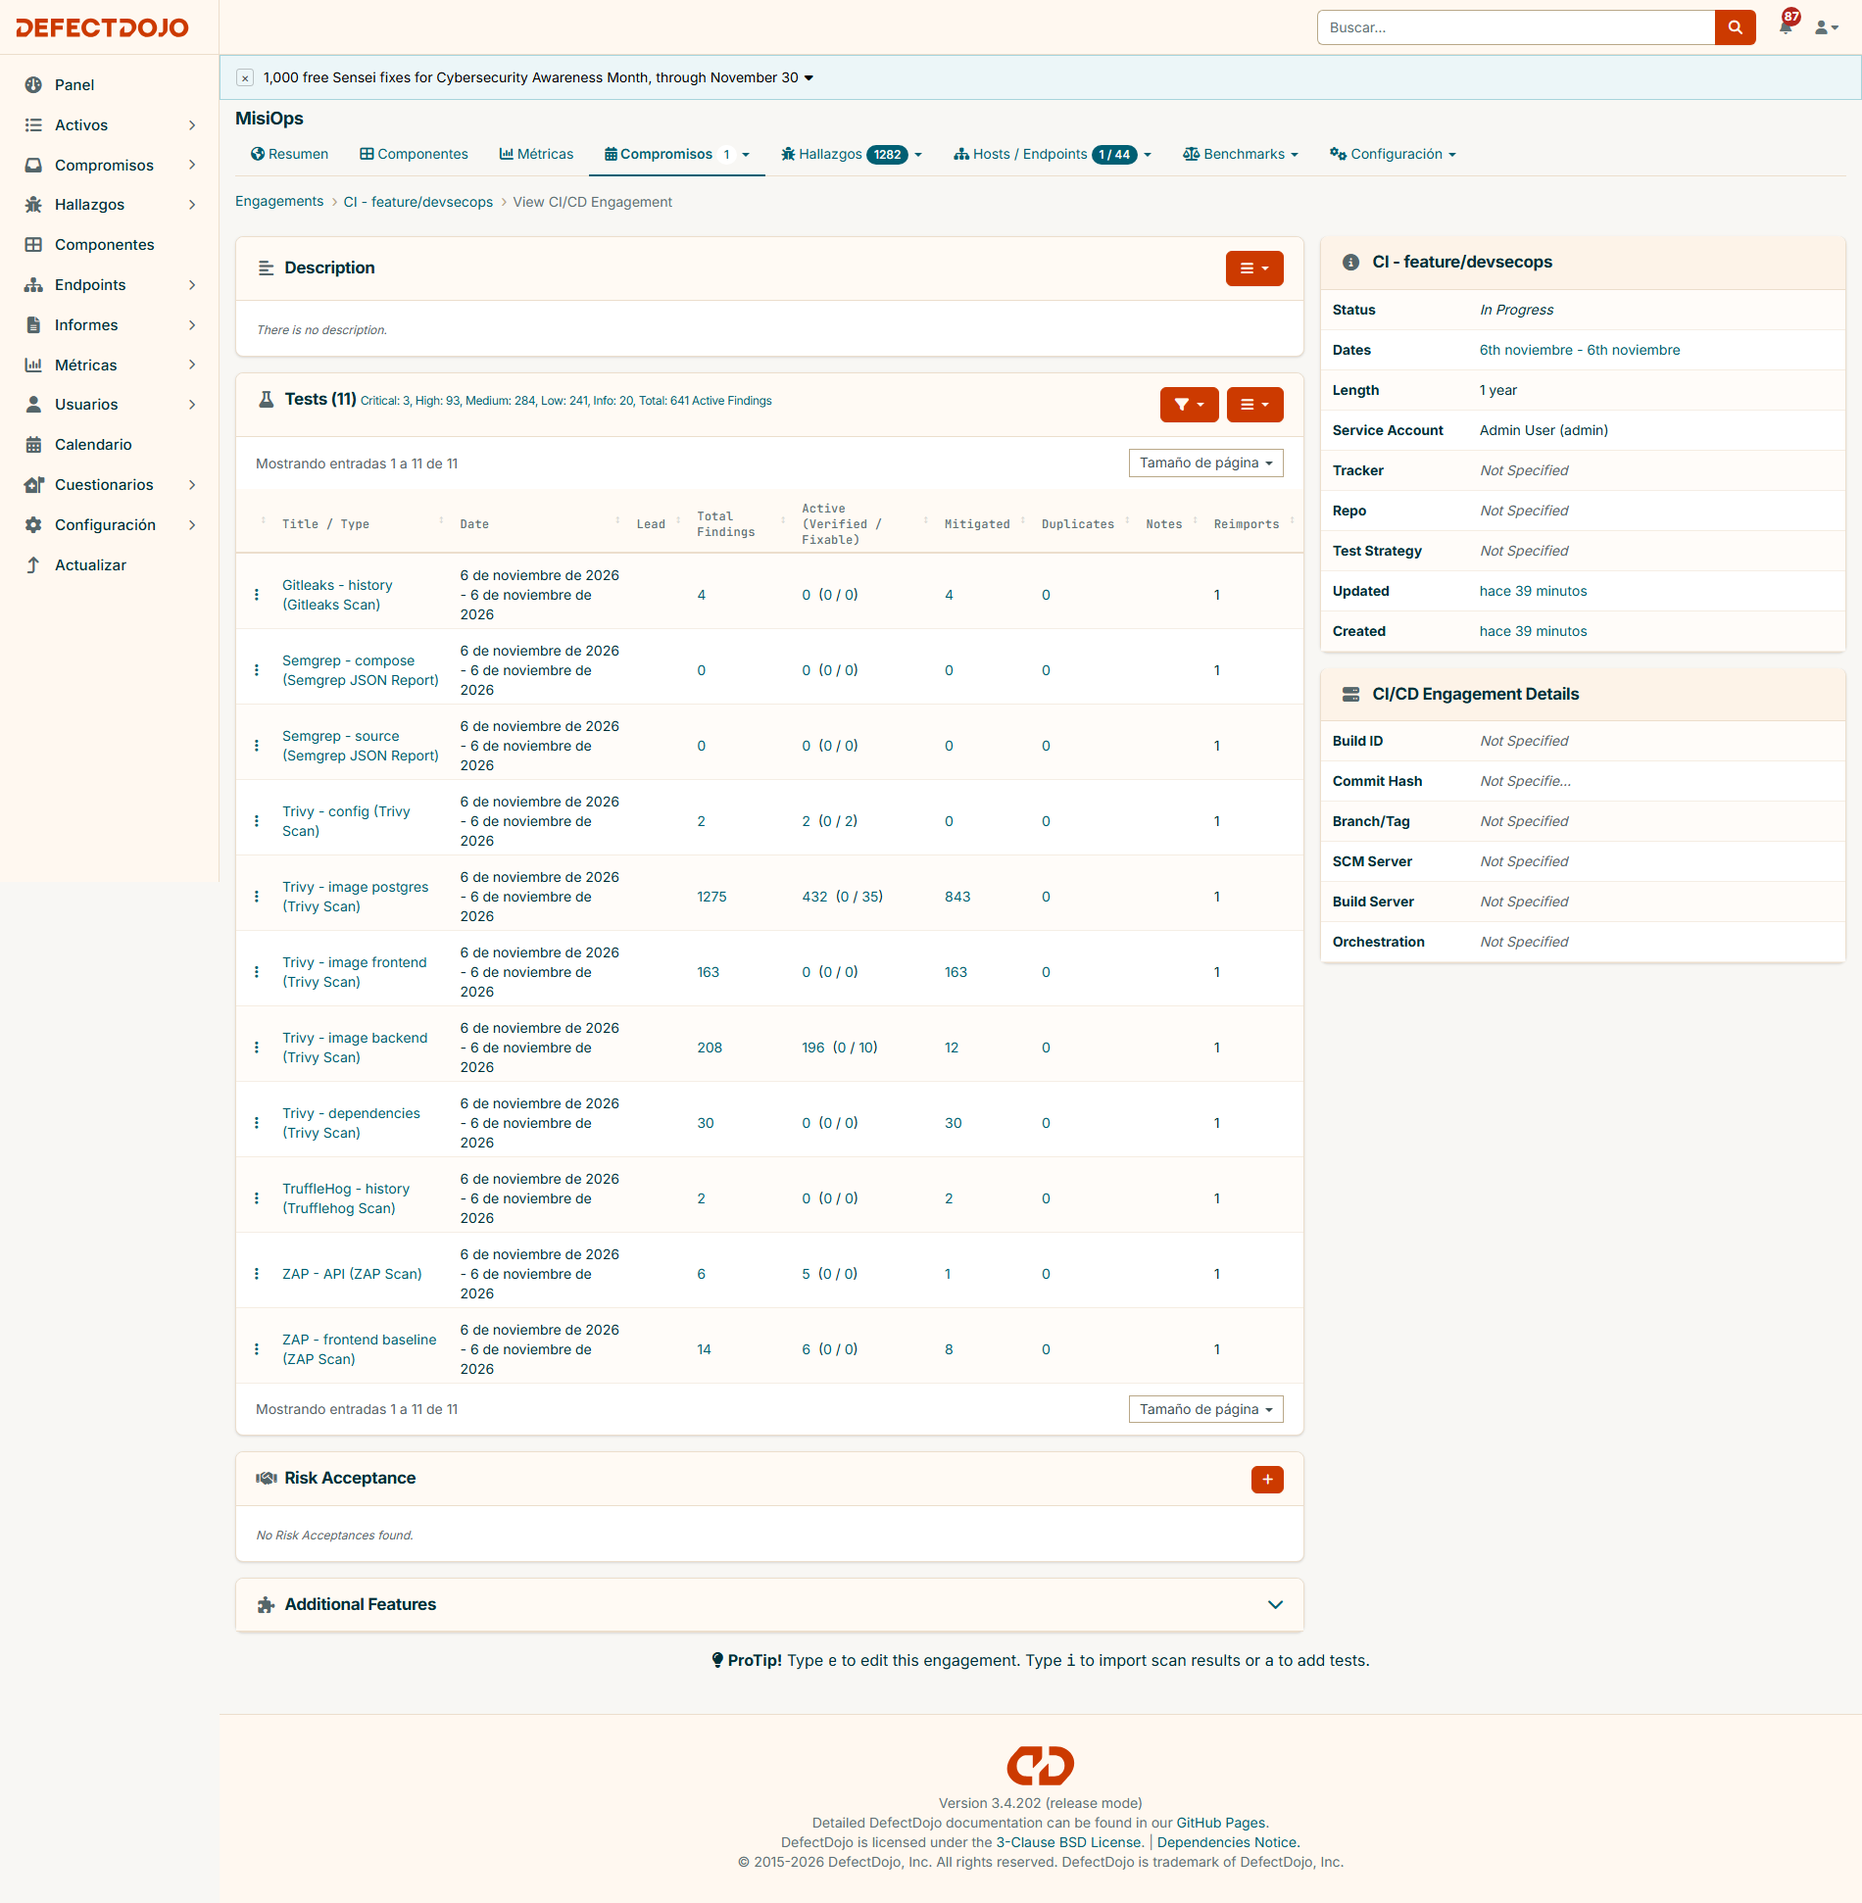
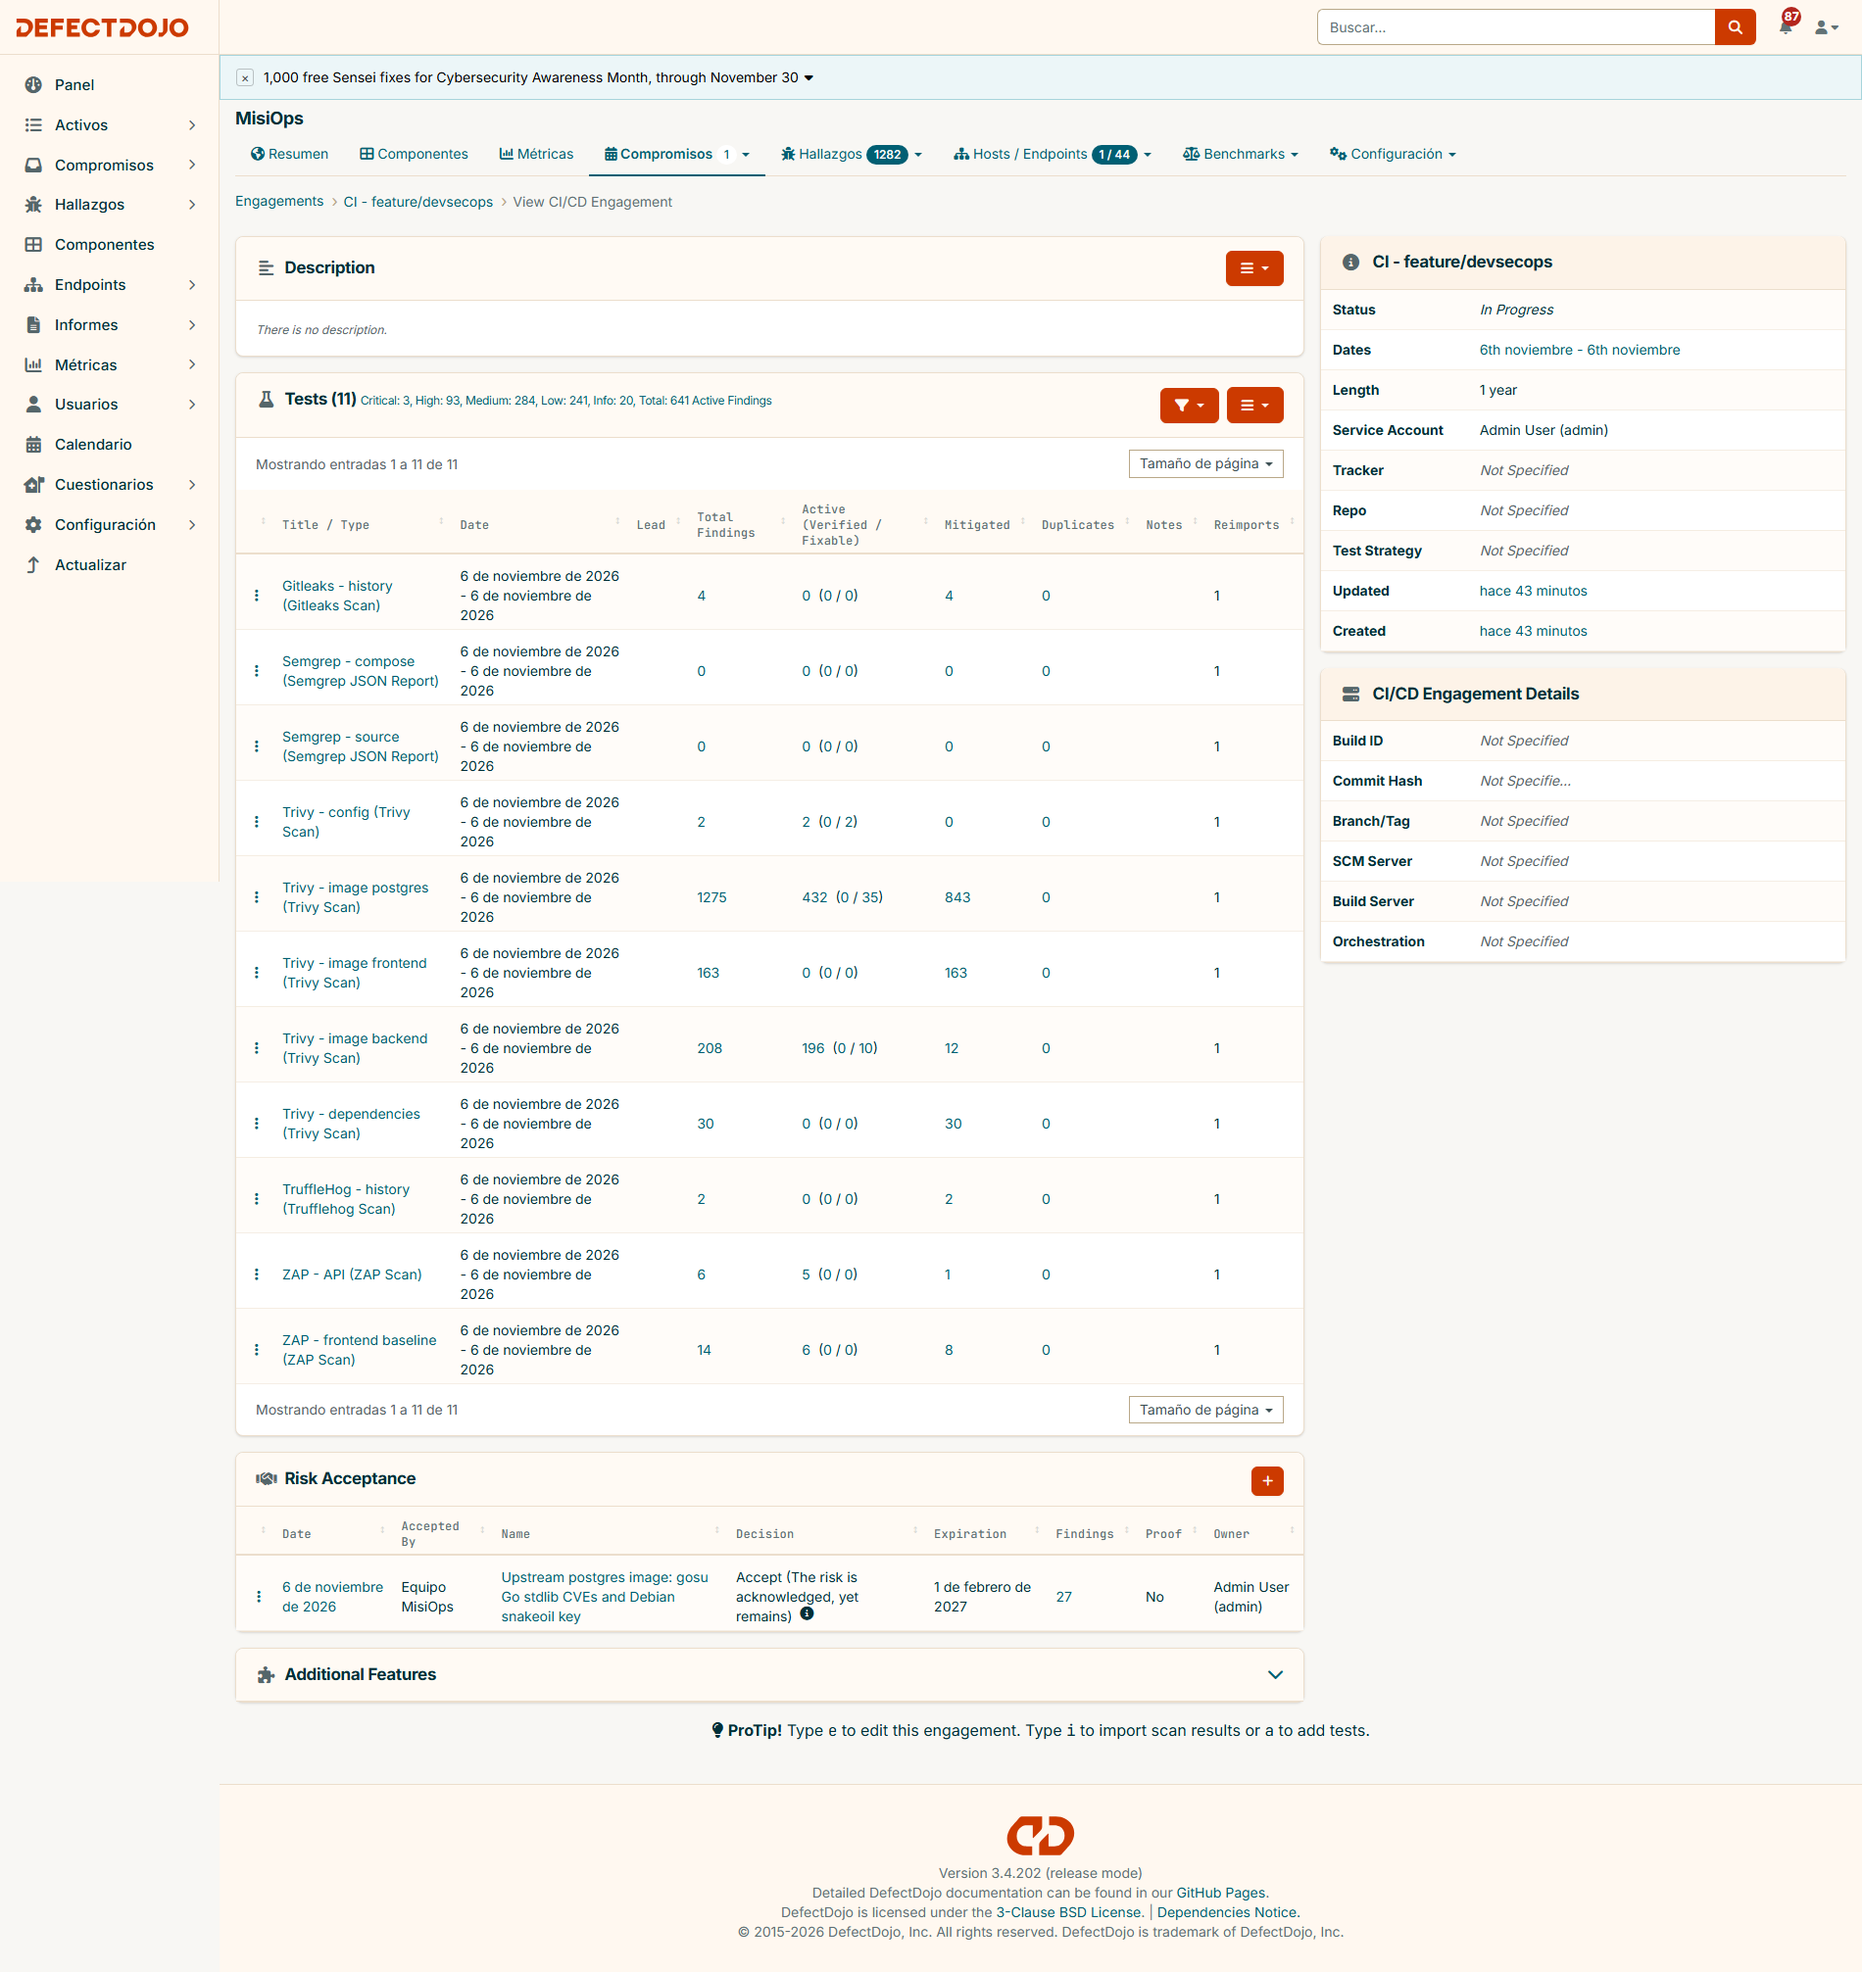
docs(devsecops): record DefectDojo triage and convergence tasks
Mirror the repository allow-lists in DefectDojo (6 false positives,
27 risk-accepted findings), refresh the engagement screenshot and
append the convergence phase (T048 done, T049 pending merge to main).

diff --git a/specs/011-devsecops/tasks.md b/specs/011-devsecops/tasks.md
@@ -141,7 +141,7 @@ description: "Task list for DevSecOps for MisiOps"
 
 ## Phase 8: Polish & Cross-Cutting
 
-- [ ] T045 Run gitleaks over the whole working tree and history one last time; confirm no DefectDojo URL/token or real credential is committed (FR-018, SC-007)
+- [X] T045 Run gitleaks over the whole working tree and history one last time; confirm no DefectDojo URL/token or real credential is committed (FR-018, SC-007)
 - [X] T046 [P] Measure the devsecops run duration from the Actions UI (≤ 20 min, NFR-001); record it in EVIDENCIAS §2i
 - [ ] T047 Run `/speckit-converge`, then `/git-change-publisher` with `.github/pull_request_template.md` as the PR body, targeting `develop`
 
@@ -165,3 +165,10 @@ description: "Task list for DevSecOps for MisiOps"
 1. MVP = Phases 1-2 + US2: every PR scanned with reports and gates
 2. Add US3 (DefectDojo) → US4 (before/after) → US5 (document), US1 in parallel
 3. Feature PR into `develop` runs report-only; the later `develop` → `main` PR is blocked by any red security check (FR-012, EX-001)
+
+---
+
+## Phase 9: Convergence
+
+- [X] T048 Mirror the repository allow-lists in DefectDojo: mark the 4 Gitleaks and 2 TruffleHog findings as False Positive and put the 26 gosu CVEs and the snakeoil key under a Risk Acceptance (expiry 2027-02-01) per data-model §Finding lifecycle / FR-012b (partial)
+- [ ] T049 After the merge into `main`, confirm the `deliver` job published `ghcr.io/jeffreymonjacastro/misiops-{backend,frontend}` and add the screenshot to EVIDENCIAS §2i per FR-015a (partial)

diff --git a/docs/devsecops/EVIDENCIAS.md b/docs/devsecops/EVIDENCIAS.md
@@ -294,7 +294,7 @@ Duración medida: **3 min 29 s** la línea base y unos 4 min el re-escaneo (requ
 
 _Captura pendiente: los checks requeridos de "Protect main" y un PR `develop` → `main` con el merge bloqueado se agregan cuando el dueño del repo complete el paso M5._
 
-**Riesgos aceptados**: cada entrada vive en el mecanismo de excepciones de la propia herramienta, con su justificación y fecha de revisión.
+**Riesgos aceptados**: cada entrada vive en el mecanismo de excepciones de la propia herramienta, con su justificación y fecha de revisión. En DefectDojo se reflejan igual: los 6 falsos positivos de secretos quedaron marcados como *False Positive*, y los 26 CVE de `gosu` más la clave snakeoil quedaron bajo una *Risk Acceptance* con vencimiento al 2027-02-01. Se ve en el panel "Risk Acceptance" de [`img/dd-rescan-engagement.png`](img/dd-rescan-engagement.png).
 
 | Riesgo | Dónde | Justificación | Revisión |
 | --- | --- | --- | --- |
